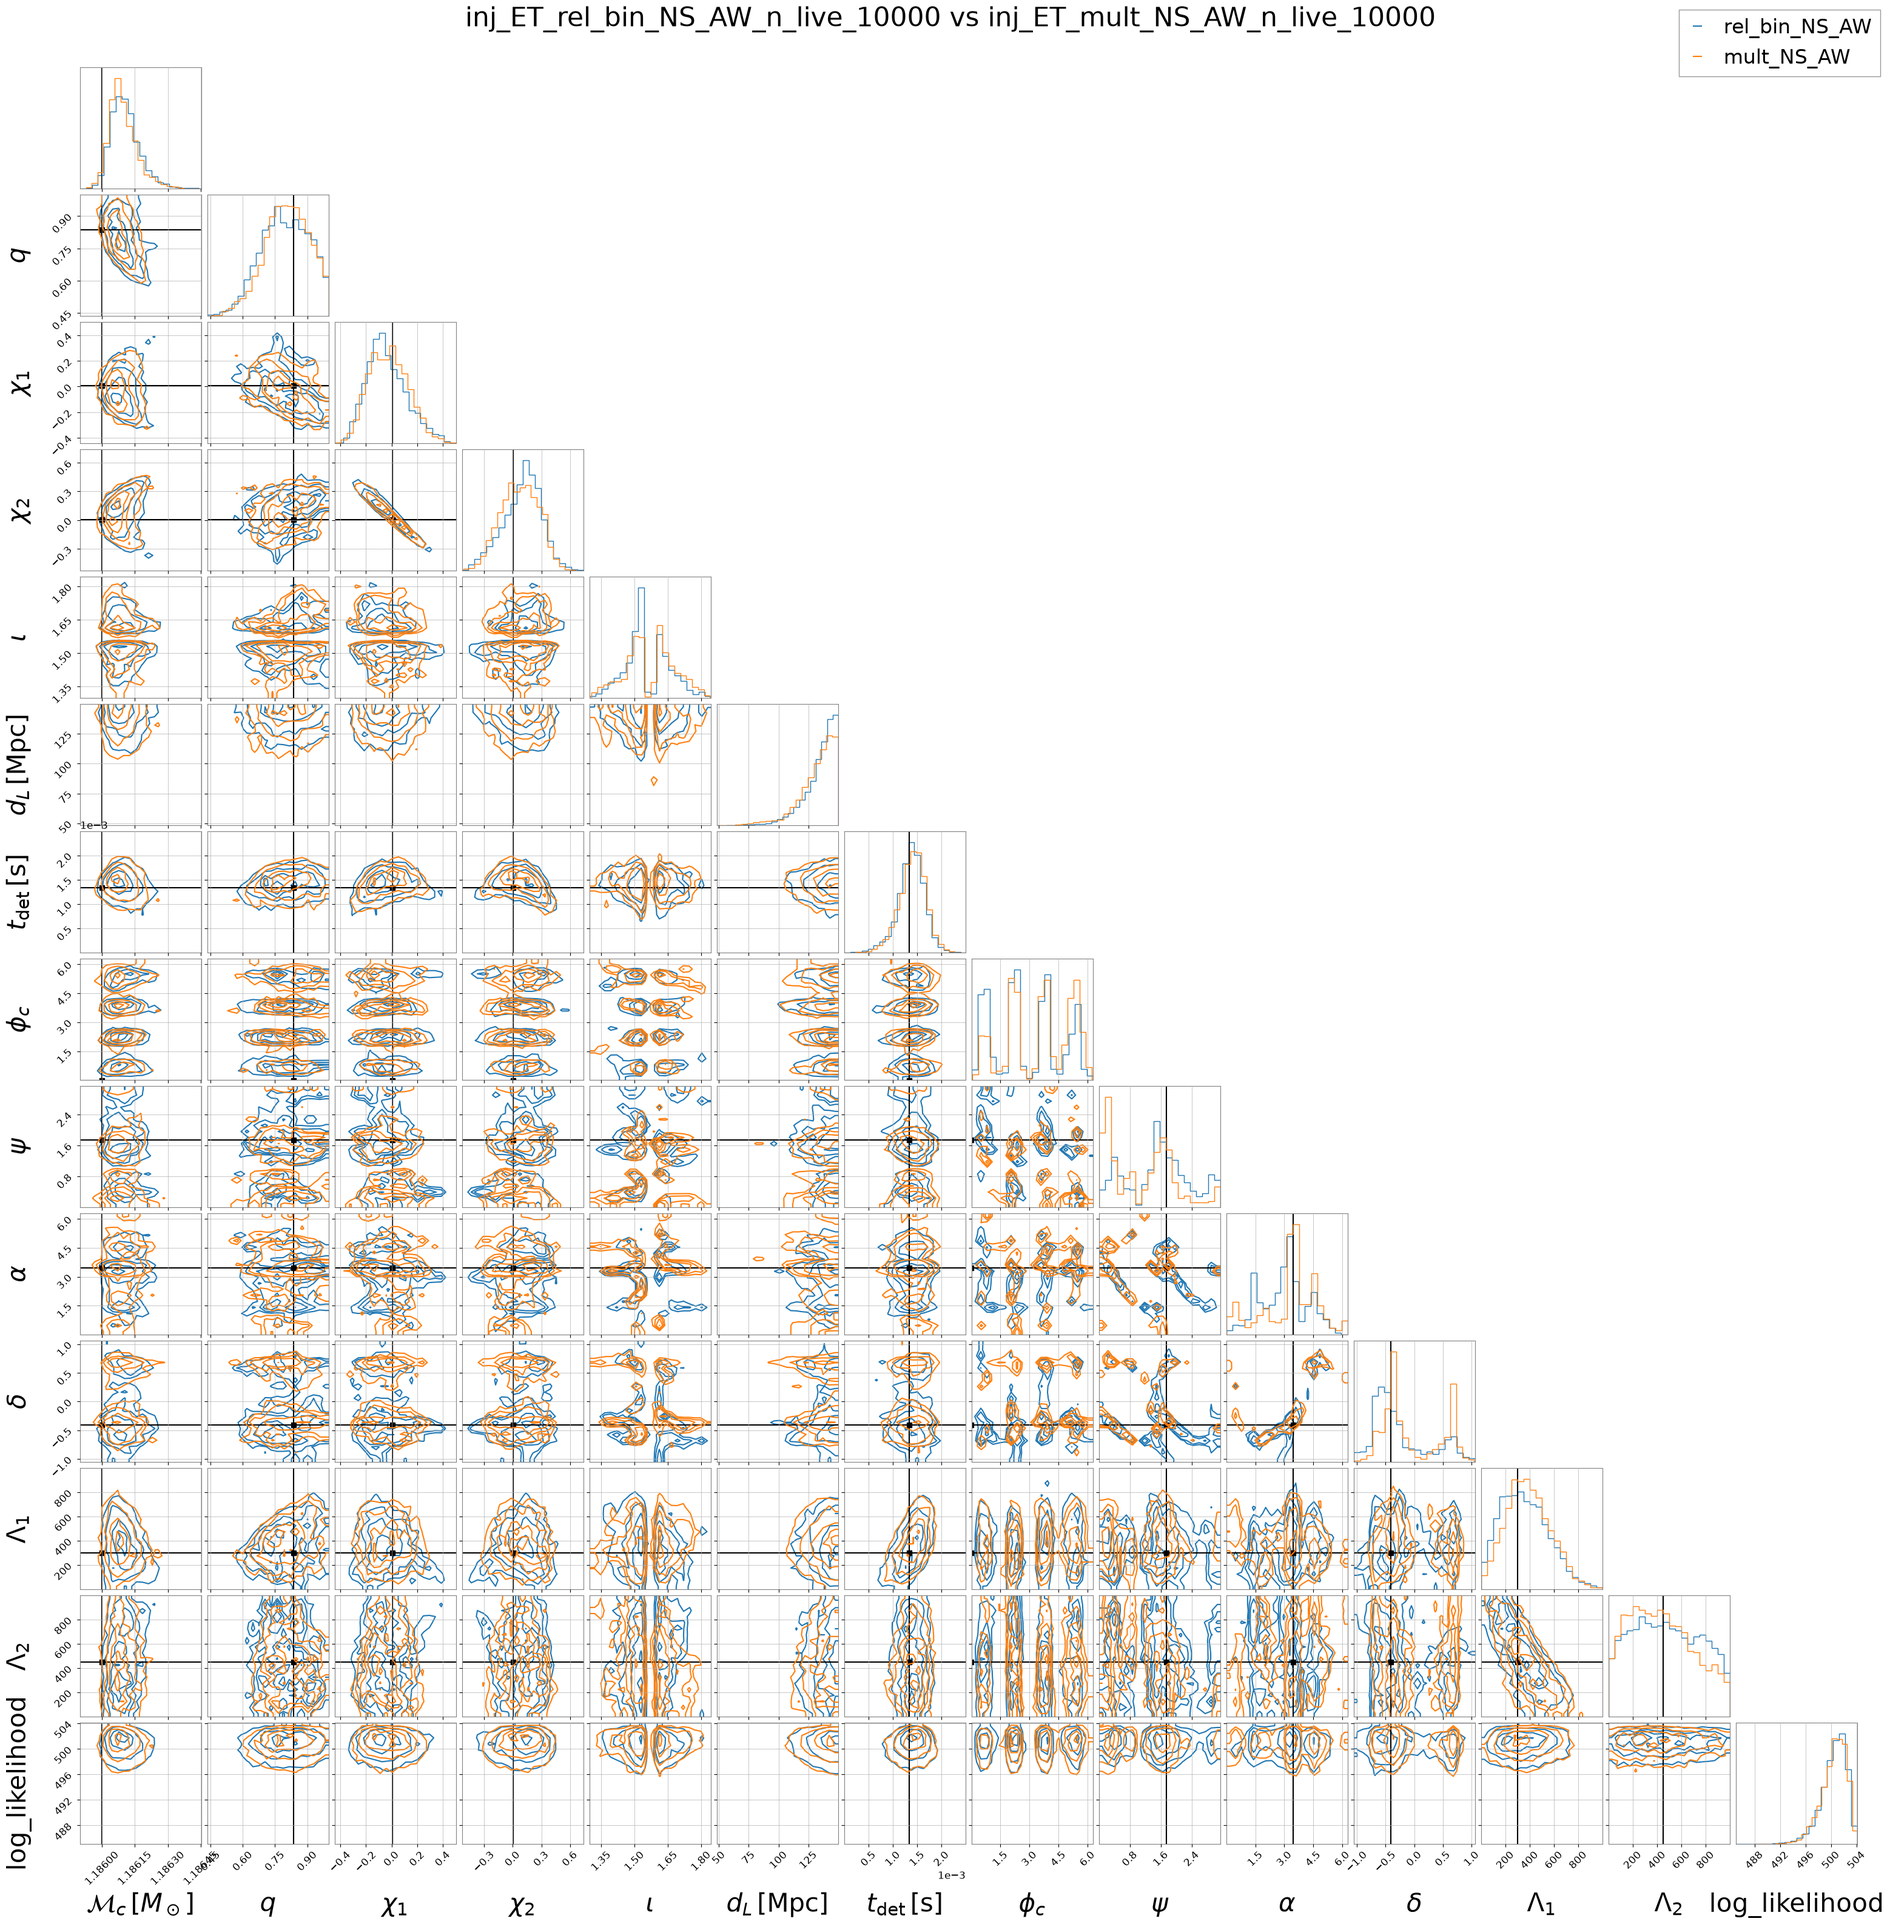
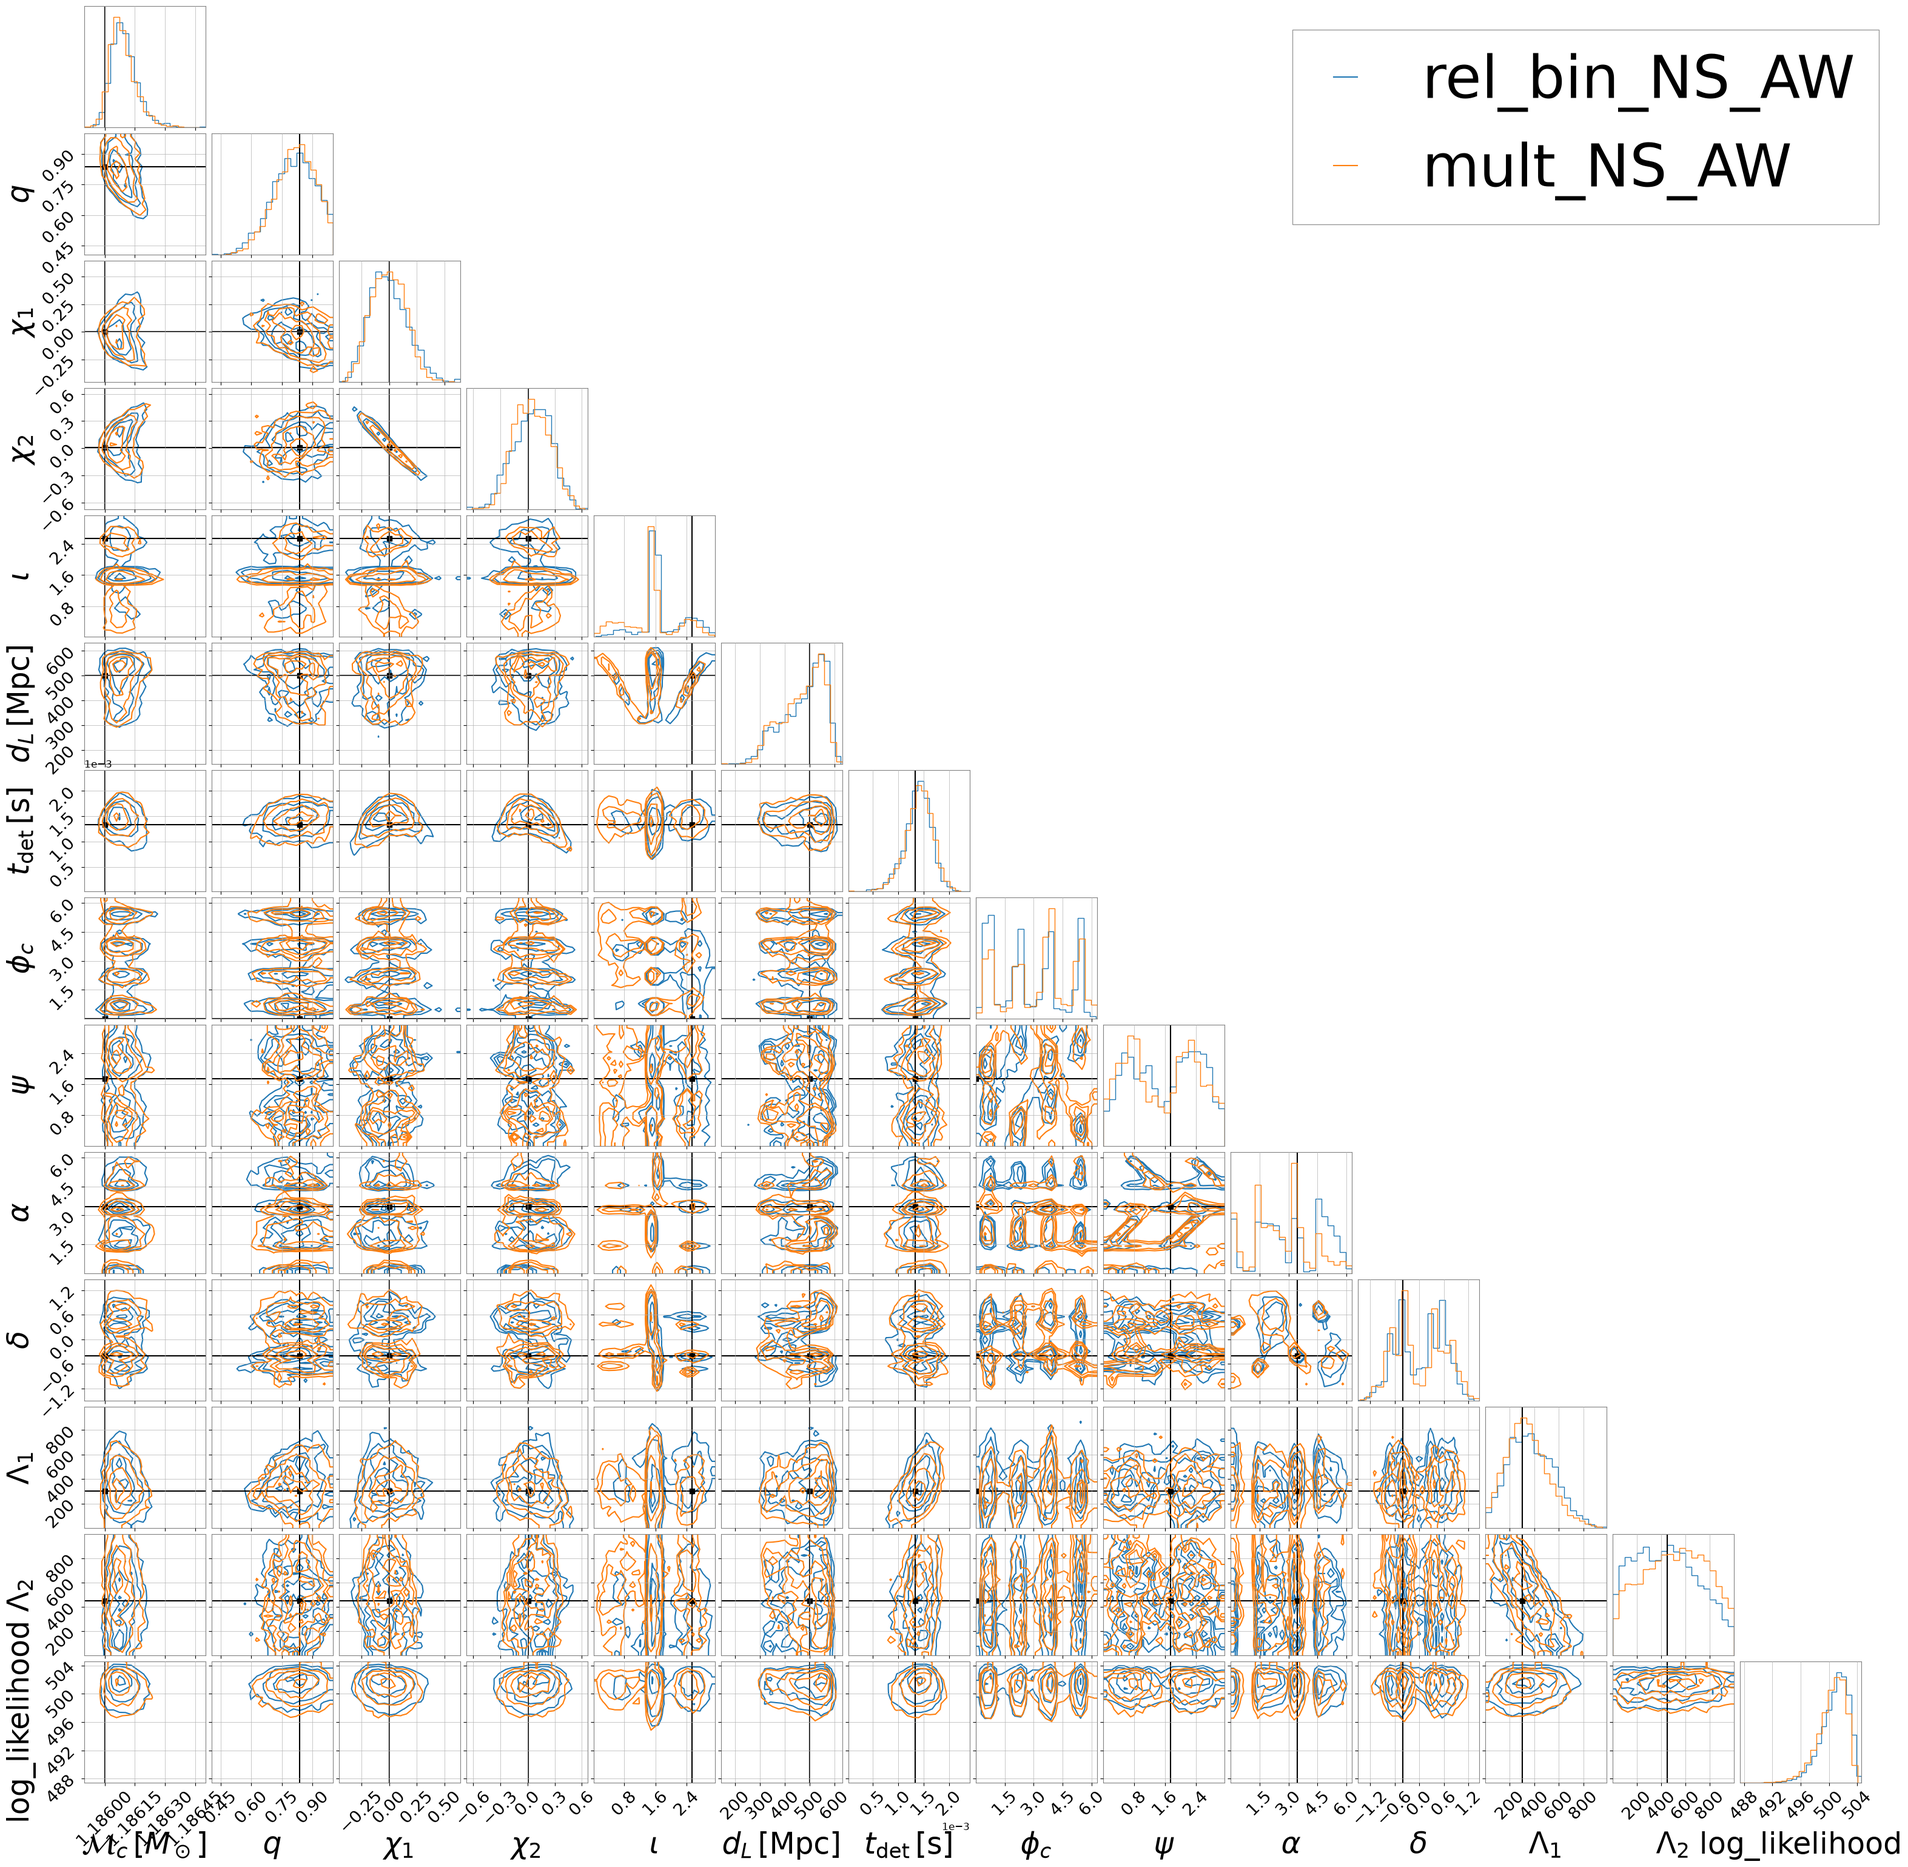
plots

diff --git a/Otmar_Thesis/tools/plot_corner.py b/Otmar_Thesis/tools/plot_corner.py
@@ -80,7 +80,7 @@ for i, run in enumerate(runs):
     samples = np.column_stack([run[k] for k in names])
     fig = corner.corner(
         samples, fig=fig, color=f"C{i}", labels=[LABELS.get(k, k) for k in names],
-        label_kwargs={"fontsize": 30},   # axis labels
+        label_kwargs={"fontsize": 35},   # axis labels
         labelpad=0.1,                    # room between labels and tick numbers
         truths=truths if i == 0 else None, truth_color="k",
         hist_kwargs={"density": True}, plot_datapoints=False, plot_density=False,
@@ -88,11 +88,11 @@ for i, run in enumerate(runs):
 
 # tick numbers on every panel
 for ax in fig.axes:
-    ax.tick_params(axis="both", labelsize=12)
+    ax.tick_params(axis="both", labelsize=20)
     
-title = " vs ".join(d.name for d in dirs)
-fig.suptitle(title, fontsize=32, y=1.02)
+#title = " vs ".join(d.name for d in dirs)
+#fig.suptitle(title, fontsize=32, y=1.02)
 fig.legend(handles=[Line2D([], [], color=f"C{i}", label=l) for i, l in enumerate(labels)],
-           loc="upper right", fontsize=24)
+           loc="upper right", fontsize=70)
 fig.savefig(args.out, dpi=100, bbox_inches="tight")
 print("Saved", args.out)
